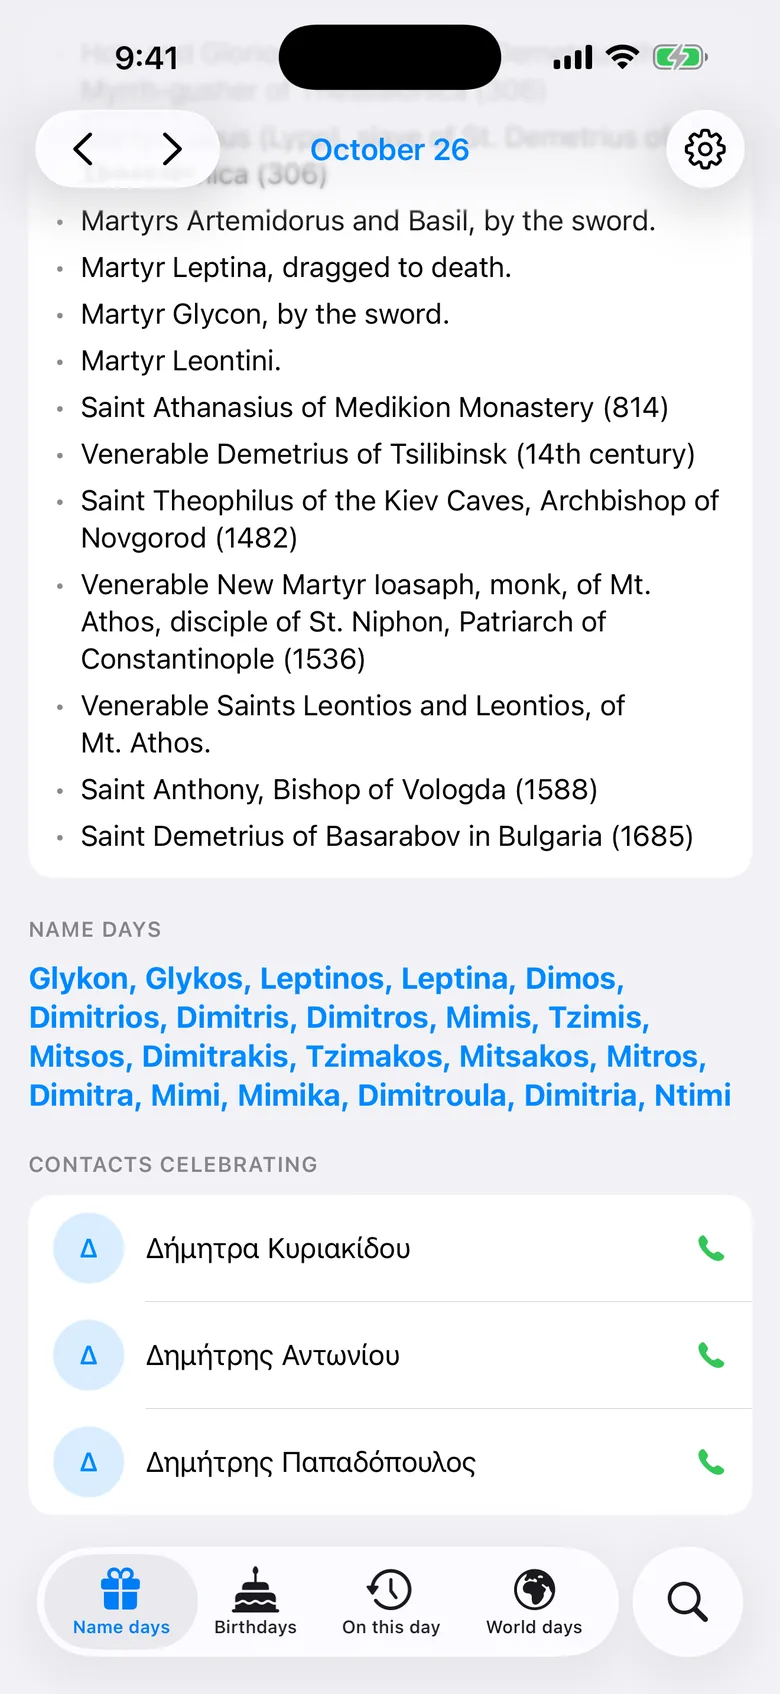
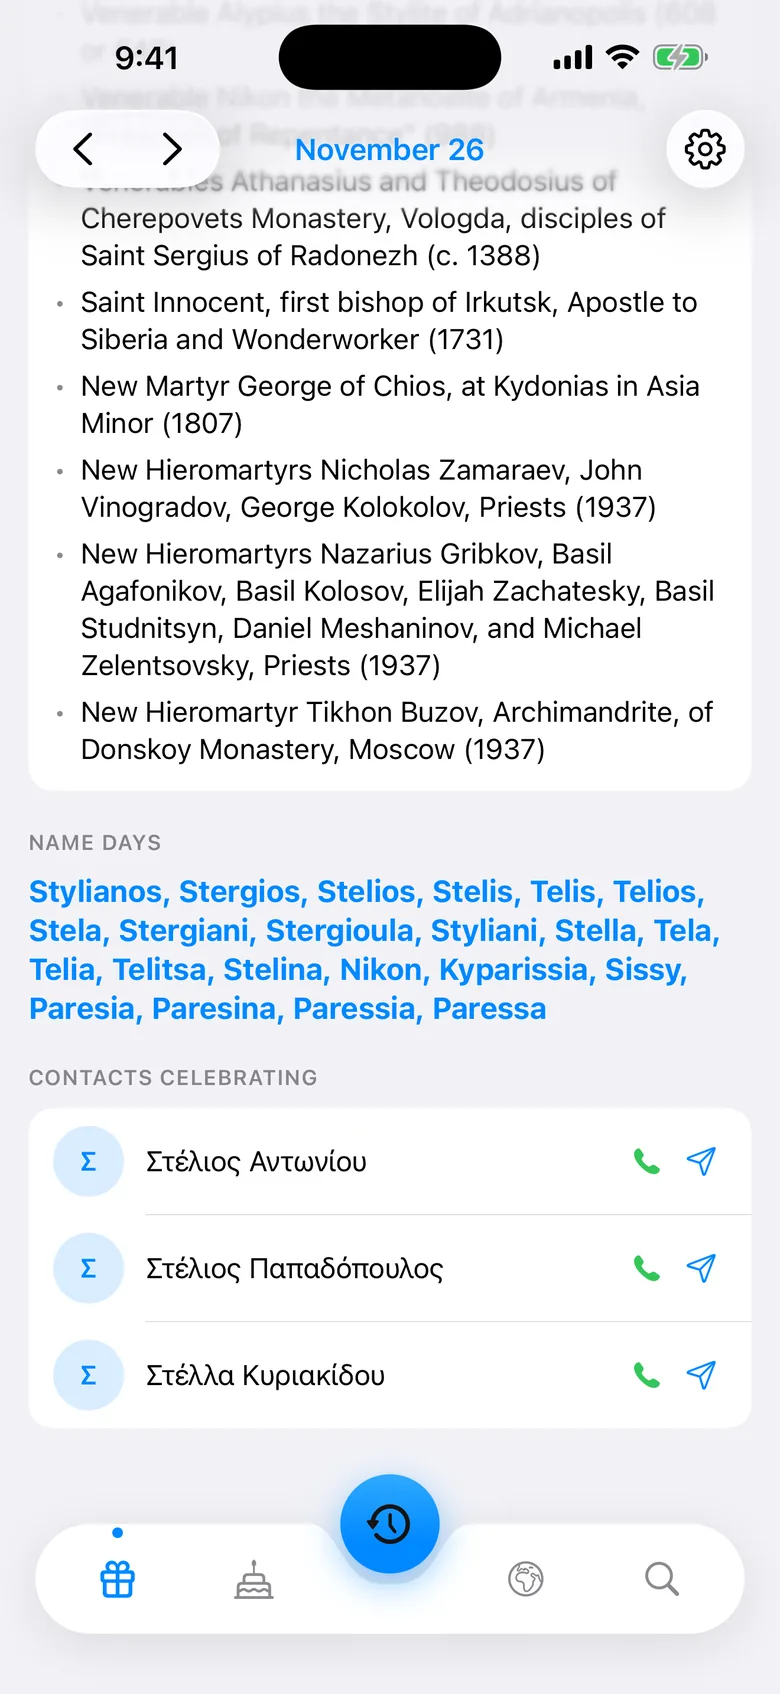
Screenshots Γιορτών (iPhone, iPad) και Chronos (αρχική, λίστα, Σαν σήμερα) με τη νέα μπάρα Hermes και τη μπίλια «Τώρα»· mockups Γιορτών με τη νέα μπάρα

diff --git a/_includes/giortes-tabs.html b/_includes/giortes-tabs.html
@@ -1,14 +1,14 @@
 {% comment %}
-Η κάτω μπάρα καρτελών του Chronos Γιορτές για τα mockups (demo-today, demo-birthdays). include.active: 0 Γιορτάζουν, 1 Γενέθλια, 2 Σαν σήμερα, 3 Παγκόσμιες.
-Τα ονόματα των καρτελών είναι από την εφαρμογή (NamedaysKit, AlmanacView).
+Η κάτω μπάρα καρτελών του Chronos Γιορτές (μπάρα Hermes του DimakisKit, από 24/11/2026) για τα mockups (demo-today, demo-birthdays, demo-names).
+include.active: 0 Γιορτάζουν, 1 Γενέθλια, 2 Σαν σήμερα (στρογγυλό κουμπί μέσης), 3 Παγκόσμιες, 4 Αναζήτηση. Χωρίς ετικέτες, όπως στην εφαρμογή.
 {% endcomment %}
-{% assign el = false %}{% if page.lang == 'el' %}{% assign el = true %}{% endif %}
 <div class="nm-tabs" aria-hidden="true">
   <span class="nm-tabbar">
-    <span{% if include.active == 0 %} class="on"{% endif %}><svg viewBox="0 0 24 24"><path d="M4 10h16v10H4zM3 7h18v3H3zM12 7v13M12 7c-3-4-6-1-4 0M12 7c3-4 6-1 4 0" fill="none" stroke="currentColor" stroke-width="2" stroke-linejoin="round" stroke-linecap="round"/></svg>{% if el %}Γιορτάζουν{% else %}Name days{% endif %}</span>
-    <span{% if include.active == 1 %} class="on"{% endif %}><svg viewBox="0 0 24 24"><path d="M5 20h14v-6H5zM6 14v-3h12v3M12 11V7M12 3v2" fill="none" stroke="currentColor" stroke-width="2" stroke-linejoin="round" stroke-linecap="round"/></svg>{% if el %}Γενέθλια{% else %}Birthdays{% endif %}</span>
-    <span{% if include.active == 2 %} class="on"{% endif %}><svg viewBox="0 0 24 24"><circle cx="12" cy="12" r="8" fill="none" stroke="currentColor" stroke-width="2"/><path d="M12 7v5l3 2" fill="none" stroke="currentColor" stroke-width="2" stroke-linecap="round"/></svg>{% if el %}Σαν σήμερα{% else %}On this day{% endif %}</span>
-    <span{% if include.active == 3 %} class="on"{% endif %}><svg viewBox="0 0 24 24"><circle cx="12" cy="12" r="8" fill="none" stroke="currentColor" stroke-width="2"/><path d="M4 12h16M12 4c3 3 3 13 0 16M12 4c-3 3-3 13 0 16" fill="none" stroke="currentColor" stroke-width="1.6"/></svg>{% if el %}Παγκόσμιες{% else %}World days{% endif %}</span>
+    <span{% if include.active == 0 %} class="on"{% endif %}><svg viewBox="0 0 24 24"><path d="M4 10h16v10H4zM3 7h18v3H3zM12 7v13M12 7c-3-4-6-1-4 0M12 7c3-4 6-1 4 0" fill="none" stroke="currentColor" stroke-width="2" stroke-linejoin="round" stroke-linecap="round"/></svg></span>
+    <span{% if include.active == 1 %} class="on"{% endif %}><svg viewBox="0 0 24 24"><path d="M5 20h14v-6H5zM6 14v-3h12v3M12 11V7M12 3v2" fill="none" stroke="currentColor" stroke-width="2" stroke-linejoin="round" stroke-linecap="round"/></svg></span>
+    <span class="nm-gap"></span>
+    <span{% if include.active == 3 %} class="on"{% endif %}><svg viewBox="0 0 24 24"><circle cx="12" cy="12" r="8" fill="none" stroke="currentColor" stroke-width="2"/><path d="M4 12h16M12 4c3 3 3 13 0 16M12 4c-3 3-3 13 0 16" fill="none" stroke="currentColor" stroke-width="1.6"/></svg></span>
+    <span{% if include.active == 4 %} class="on"{% endif %}><svg viewBox="0 0 24 24"><circle cx="10.5" cy="10.5" r="6.5" fill="none" stroke="currentColor" stroke-width="2.4"/><path d="M15.5 15.5L20 20" stroke="currentColor" stroke-width="2.4" stroke-linecap="round"/></svg></span>
   </span>
-  <span class="nm-search-btn"><svg viewBox="0 0 20 20" width="22" height="22"><circle cx="8.5" cy="8.5" r="5.8" fill="none" stroke="#0a84ff" stroke-width="2.2"/><path d="M13 13l4.5 4.5" stroke="#0a84ff" stroke-width="2.2" stroke-linecap="round"/></svg></span>
+  <span class="nm-center"><svg viewBox="0 0 24 24"><path d="M4 12a8 8 0 1 0 2.5-5.8M4 4v4.5h4.5M12 7.5V12l3 2" fill="none" stroke="currentColor" stroke-width="2.2" stroke-linecap="round" stroke-linejoin="round"/></svg></span>
 </div>

diff --git a/assets/style.css b/assets/style.css
@@ -744,11 +744,13 @@ a.family-card:hover{transform:translateY(-3px);border-color:rgba(237,241,238,.28
 .nm-row.nm-h span:first-child{width:calc(var(--u)*62);flex:none}
 .nm-row.nm-bold span:last-child{font-weight:700}
 .nm-empty{text-align:center;padding-top:calc(var(--u)*120);color:#000;font-size:calc(var(--u)*20)}
-.nm-tabs{position:absolute;left:calc(var(--u)*12);right:calc(var(--u)*12);bottom:calc(var(--u)*14);display:flex;gap:calc(var(--u)*8);align-items:center}
-.nm-tabbar{flex:1;display:flex;justify-content:space-around;background:rgba(255,255,255,.92);border-radius:999px;padding:calc(var(--u)*7) calc(var(--u)*4);box-shadow:0 4px 16px rgba(0,0,0,.1)}
-.nm-tabbar span{display:flex;flex-direction:column;align-items:center;gap:calc(var(--u)*1);font-size:calc(var(--u)*9.2);color:#1c1c1e;white-space:nowrap}
-.nm-tabbar svg{width:calc(var(--u)*22);height:calc(var(--u)*22)}
-.nm-search-btn{flex:none;display:grid;place-items:center;width:calc(var(--u)*52);height:calc(var(--u)*52);background:#fff;border-radius:50%;box-shadow:0 4px 16px rgba(0,0,0,.1)}
+.nm-tabs{position:absolute;left:calc(var(--u)*14);right:calc(var(--u)*14);bottom:calc(var(--u)*14);height:calc(var(--u)*58)}
+.nm-tabbar{position:absolute;inset:0;display:flex;align-items:center;background:rgba(255,255,255,.95);border-radius:999px;box-shadow:0 6px 20px rgba(0,0,0,.12)}
+.nm-tabbar span{position:relative;flex:1;display:grid;place-items:center;color:#8a8a8e}
+.nm-tabbar span.nm-gap{flex:1.4}
+.nm-tabbar svg{width:calc(var(--u)*24);height:calc(var(--u)*24)}
+.nm-center{position:absolute;left:50%;top:calc(var(--u)*-16);transform:translateX(-50%);width:calc(var(--u)*64);height:calc(var(--u)*64);border-radius:50%;display:grid;place-items:center;color:#000;background:radial-gradient(circle at 50% 35%,#2fa5ff,#0a84ff);box-shadow:0 0 0 calc(var(--u)*5) rgba(255,255,255,.95),0 8px 22px rgba(10,132,255,.4)}
+.nm-center svg{width:calc(var(--u)*30);height:calc(var(--u)*30)}
 @keyframes nm-in{from{opacity:0;transform:translateY(calc(var(--u)*4))}}
 @media (prefers-reduced-motion:reduce){.nm-row{animation:none}}
 
@@ -759,6 +761,7 @@ a.family-card:hover{transform:translateY(-3px);border-color:rgba(237,241,238,.28
 
 /* demo-today και demo-birthdays (Γιορτές): μοιράζονται το κέλυφος .nm του demo-names */
 .nm-tabbar span.on{color:#0a84ff}
+.nm-tabbar span.on::before{content:"";position:absolute;left:50%;top:calc(var(--u)*-1);width:calc(var(--u)*6);height:calc(var(--u)*6);margin-left:calc(var(--u)*-3);border-radius:50%;background:#0a84ff}
 .nt-body{position:absolute;left:calc(var(--u)*14);right:calc(var(--u)*14);top:calc(var(--u)*108);bottom:calc(var(--u)*86);overflow:hidden;mask:linear-gradient(#000 88%,transparent)}
 .nt-week{text-align:center;color:#6c6c70;font-size:calc(var(--u)*17);letter-spacing:.06em;margin-top:calc(var(--u)*8)}
 .nt-day{text-align:center;color:#0a84ff;font-size:calc(var(--u)*92);font-weight:700;line-height:1.05}
@@ -779,7 +782,6 @@ a.family-card:hover{transform:translateY(-3px);border-color:rgba(237,241,238,.28
 .bd-main small.now{color:#0a84ff}
 .bd-side{display:flex;flex-direction:column;align-items:flex-end;gap:calc(var(--u)*2)}
 .bd-side b{display:flex;align-items:center;gap:calc(var(--u)*4);font-weight:600;font-size:calc(var(--u)*16)}
-.nm-tabbar span{flex:1}
 
 /* demo-search, demo-albums, demo-trips (Apollo): κέλυφος .ap, 1u = 1pt σε οθόνη 390pt */
 .ap-fallback[hidden],.ap[hidden]{display:none}

diff --git a/_includes/demo-names.html b/_includes/demo-names.html
@@ -29,15 +29,7 @@
             <div class="nm-year" aria-hidden="true"><i>&lsaquo;</i><b>2026</b><i>&rsaquo;</i></div>
             <label class="nm-field"><svg viewBox="0 0 20 20" width="17" height="17" aria-hidden="true"><circle cx="8.5" cy="8.5" r="5.8" fill="none" stroke="#8a8a8e" stroke-width="2"/><path d="M13 13l4.5 4.5" stroke="#8a8a8e" stroke-width="2" stroke-linecap="round"/></svg><input type="text" inputmode="search" autocomplete="off" autocapitalize="off" spellcheck="false" aria-label="{% if el %}Όνομα{% else %}Name{% endif %}" placeholder="{% if el %}Όνομα, π.χ. Ελένη{% else %}Name, e.g. Helen{% endif %}"><button type="button" class="nm-clear" aria-label="{% if el %}Καθαρισμός{% else %}Clear{% endif %}" hidden>&times;</button></label>
             <div class="nm-body" aria-live="polite"></div>
-            <div class="nm-tabs" aria-hidden="true">
-              <span class="nm-tabbar">
-                <span><svg viewBox="0 0 24 24"><path d="M4 10h16v10H4zM3 7h18v3H3zM12 7v13M12 7c-3-4-6-1-4 0M12 7c3-4 6-1 4 0" fill="none" stroke="currentColor" stroke-width="2" stroke-linejoin="round" stroke-linecap="round"/></svg>{% if el %}Γιορτάζουν{% else %}Name days{% endif %}</span>
-                <span><svg viewBox="0 0 24 24"><path d="M5 20h14v-6H5zM6 14v-3h12v3M12 11V7M12 3v2" fill="none" stroke="currentColor" stroke-width="2" stroke-linejoin="round" stroke-linecap="round"/></svg>{% if el %}Γενέθλια{% else %}Birthdays{% endif %}</span>
-                <span><svg viewBox="0 0 24 24"><circle cx="12" cy="12" r="8" fill="none" stroke="currentColor" stroke-width="2"/><path d="M12 7v5l3 2" fill="none" stroke="currentColor" stroke-width="2" stroke-linecap="round"/></svg>{% if el %}Σαν σήμερα{% else %}On this day{% endif %}</span>
-                <span><svg viewBox="0 0 24 24"><circle cx="12" cy="12" r="8" fill="none" stroke="currentColor" stroke-width="2"/><path d="M4 12h16M12 4c3 3 3 13 0 16M12 4c-3 3-3 13 0 16" fill="none" stroke="currentColor" stroke-width="1.6"/></svg>{% if el %}Παγκόσμιες{% else %}World days{% endif %}</span>
-              </span>
-              <span class="nm-search-btn"><svg viewBox="0 0 20 20" width="22" height="22"><circle cx="8.5" cy="8.5" r="5.8" fill="none" stroke="#0a84ff" stroke-width="2.2"/><path d="M13 13l4.5 4.5" stroke="#0a84ff" stroke-width="2.2" stroke-linecap="round"/></svg></span>
-            </div>
+            {% include giortes-tabs.html active=4 %}
           </div>
         </div>
       </div>

diff --git a/CLAUDE.md b/CLAUDE.md
@@ -29,7 +29,7 @@
 - **Διαδραστικά mockups** (απόφαση 23/10/2026): `_includes/demo-<όνομα>.html`, ενεργοποιούνται με `demos:` στο `_data/showcase/<app>.yml`
   και μπαίνουν μετά τη γκαλερί της σελίδας (`_layouts/app.html`). Είναι προσομοιώσεις με το χέρι, όχι ο πραγματικός κώδικας της εφαρμογής:
   φράσεις και κείμενα οθόνης από την εφαρμογή (fixtures, screenshots), ό,τι δείχνουν επαληθεύεται στον κώδικα πριν μπει. Χωρίς JS ή με
-  `prefers-reduced-motion` δείχνουν στατικά το πρώτο αποτέλεσμα. Υπάρχουν: `demo-quickadd` (Chronos, Γρήγορη προσθήκη, προσομοίωση) και `demo-views` (Chronos, εναλλαγή όψεων με τα screenshots της γκαλερί), `demo-weather` (Chronos, Καιρός: Αθήνα/Λονδίνο και Θερμοκρασία/Βροχή/Άνεμος· δείγμα δεδομένων, τα mm και km/h είναι ενδεικτικά· το μεγάλο εικονίδιο είναι τα πραγματικά PNG της εφαρμογής στο `assets/screens/chronos/weather/`, και η βροχή πέφτει σε όλη την οθόνη όπως στο `RainView`, όχι πάνω στο εικονίδιο· τα μικρά εικονίδια ωρών είναι δικά μας σχέδια, στην εφαρμογή SF Symbols), `demo-names` (Γιορτές, αναζήτηση ονόματος με δείγμα 22 ονομάτων από το NamedaysKit· μόνο ονόματα με σταθερή ημερομηνία, κανόνες αναζήτησης όπως `searchNames`: ≥2 γράμματα, από την αρχή, χωρίς τόνους, ελληνικά ή λατινικά). Γιορτές, επίσης: `demo-today` (Γιορτάζουν: ονόματα ημέρας 26 Οκτ, 30 Νοε, 6 Δεκ από το NamedaysKit και φανταστικές επαφές που ταιριάζουν στο όνομα) και `demo-birthdays` (Γενέθλια: κανόνες του `ContactBirthdays.swift`, ηλικία, ζώδιο, «σήμερα/αύριο/σε Χ ημέρες»)· κοινή κάτω μπάρα στο `_includes/giortes-tabs.html`. Apollo: `demo-search` (αναζήτηση «πουλιά»/toucan/μήνας και έτος, δείγμα 8 φωτογραφιών κομμένων από τα screenshots, κανόνες `PhotoSearch`/`PhotoConcepts`), `demo-albums` (άλμπουμ ανά έτος και «φάκελοι» ετών, κανόνες `AlbumsView`/`MegaFolder`) και `demo-trips` (ταξίδι Κρήτη: έξοδα με σύνολο, βαθμολογίες με μέσο όρο, πτήσεις· κανόνες `Trip.totalCost`/`averageStars`/`setStars`)· κοινή μπάρα `_includes/apollo-tabs.html`, εικόνες στο `assets/screens/apollo/demo/`. Iris (Mac): `demo-privacy` (Καθαρισμός για ιδιωτικότητα: παράθυρο επιβεβαίωσης και κείμενα από την εφαρμογή, δείγμα τιμών κάμερας/τίτλου/λέξεων κλειδιών, ΔΕΝ αναιρείται), `demo-shift` (Μετατόπιση ημερομηνίας: κανόνες `DateShift`/`ClockTime`, αναίρεση) και `demo-rename` (Μετονομασία: `RenamePattern.baseName`, αρίθμηση ανά ταξινόμηση)· κοινό παράθυρο `_includes/iris-win.html` με 8 αρχεία από το screenshot, μικρογραφίες στο `assets/screens/iris/demo/`, το παράθυρο κυλά οριζόντια σε κινητό. CSS στο τέλος του `assets/style.css`.
+  `prefers-reduced-motion` δείχνουν στατικά το πρώτο αποτέλεσμα. Υπάρχουν: `demo-quickadd` (Chronos, Γρήγορη προσθήκη, προσομοίωση) και `demo-views` (Chronos, εναλλαγή όψεων με τα screenshots της γκαλερί), `demo-weather` (Chronos, Καιρός: Αθήνα/Λονδίνο και Θερμοκρασία/Βροχή/Άνεμος· δείγμα δεδομένων, τα mm και km/h είναι ενδεικτικά· το μεγάλο εικονίδιο είναι τα πραγματικά PNG της εφαρμογής στο `assets/screens/chronos/weather/`, και η βροχή πέφτει σε όλη την οθόνη όπως στο `RainView`, όχι πάνω στο εικονίδιο· τα μικρά εικονίδια ωρών είναι δικά μας σχέδια, στην εφαρμογή SF Symbols), `demo-names` (Γιορτές, αναζήτηση ονόματος με δείγμα 22 ονομάτων από το NamedaysKit· μόνο ονόματα με σταθερή ημερομηνία, κανόνες αναζήτησης όπως `searchNames`: ≥2 γράμματα, από την αρχή, χωρίς τόνους, ελληνικά ή λατινικά). Γιορτές, επίσης: `demo-today` (Γιορτάζουν: ονόματα ημέρας 26 Οκτ, 30 Νοε, 6 Δεκ από το NamedaysKit και φανταστικές επαφές που ταιριάζουν στο όνομα) και `demo-birthdays` (Γενέθλια: κανόνες του `ContactBirthdays.swift`, ηλικία, ζώδιο, «σήμερα/αύριο/σε Χ ημέρες»)· κοινή κάτω μπάρα στο `_includes/giortes-tabs.html` (και στο `demo-names`): ακολουθεί τη μπάρα Hermes του DimakisKit (στρογγυλό κουμπί «Σαν σήμερα» στη μέση, χωρίς ετικέτες, από 24/11/2026) και αλλάζει όποτε αλλάζει εκείνη. Apollo: `demo-search` (αναζήτηση «πουλιά»/toucan/μήνας και έτος, δείγμα 8 φωτογραφιών κομμένων από τα screenshots, κανόνες `PhotoSearch`/`PhotoConcepts`), `demo-albums` (άλμπουμ ανά έτος και «φάκελοι» ετών, κανόνες `AlbumsView`/`MegaFolder`) και `demo-trips` (ταξίδι Κρήτη: έξοδα με σύνολο, βαθμολογίες με μέσο όρο, πτήσεις· κανόνες `Trip.totalCost`/`averageStars`/`setStars`)· κοινή μπάρα `_includes/apollo-tabs.html`, εικόνες στο `assets/screens/apollo/demo/`. Iris (Mac): `demo-privacy` (Καθαρισμός για ιδιωτικότητα: παράθυρο επιβεβαίωσης και κείμενα από την εφαρμογή, δείγμα τιμών κάμερας/τίτλου/λέξεων κλειδιών, ΔΕΝ αναιρείται), `demo-shift` (Μετατόπιση ημερομηνίας: κανόνες `DateShift`/`ClockTime`, αναίρεση) και `demo-rename` (Μετονομασία: `RenamePattern.baseName`, αρίθμηση ανά ταξινόμηση)· κοινό παράθυρο `_includes/iris-win.html` με 8 αρχεία από το screenshot, μικρογραφίες στο `assets/screens/iris/demo/`, το παράθυρο κυλά οριζόντια σε κινητό. CSS στο τέλος του `assets/style.css`.
 - `_layouts/default.html`: `<title>`, canonical, hreflang (x-default → αγγλικά), Smart App Banner, footer, κουμπί «πάνω».
 - **Copyright** (16/11/2026): `owner_name: Christos Dimakis` στο `site.yml` (ίδιο με τον λογαριασμό Apple Developer), δημιουργός στο JSON-LD και στη σελίδα Press. Στο footer «© 2026 Christos Dimakis»· από το 2027 γράφει μόνο του «© 2026–<έτος>» (έτος του build, άρα αλλάζει με το πρώτο push της χρονιάς). Τα zip του Press Kit γράφουν ακόμα «dimakis» ώσπου να ξανατρέξει το `press_kits.rb`. Οι όροι κάθε εφαρμογής έχουν ήδη ενότητα «Intellectual property»/«Copyright» με το ίδιο όνομα. Για App Store και εφαρμογές: Ευαγγέλιο 9.18.
 - **Κρυφή λίστα «Οι εφαρμογές μας» για τις εφαρμογές** (23/10/2026): `/in-app/apps.json` (σταθερό σχήμα, `version: 1`) και `/in-app/apps/` (ίδια λίστα για έλεγχο ή WebView, `?lang=el|en`).
